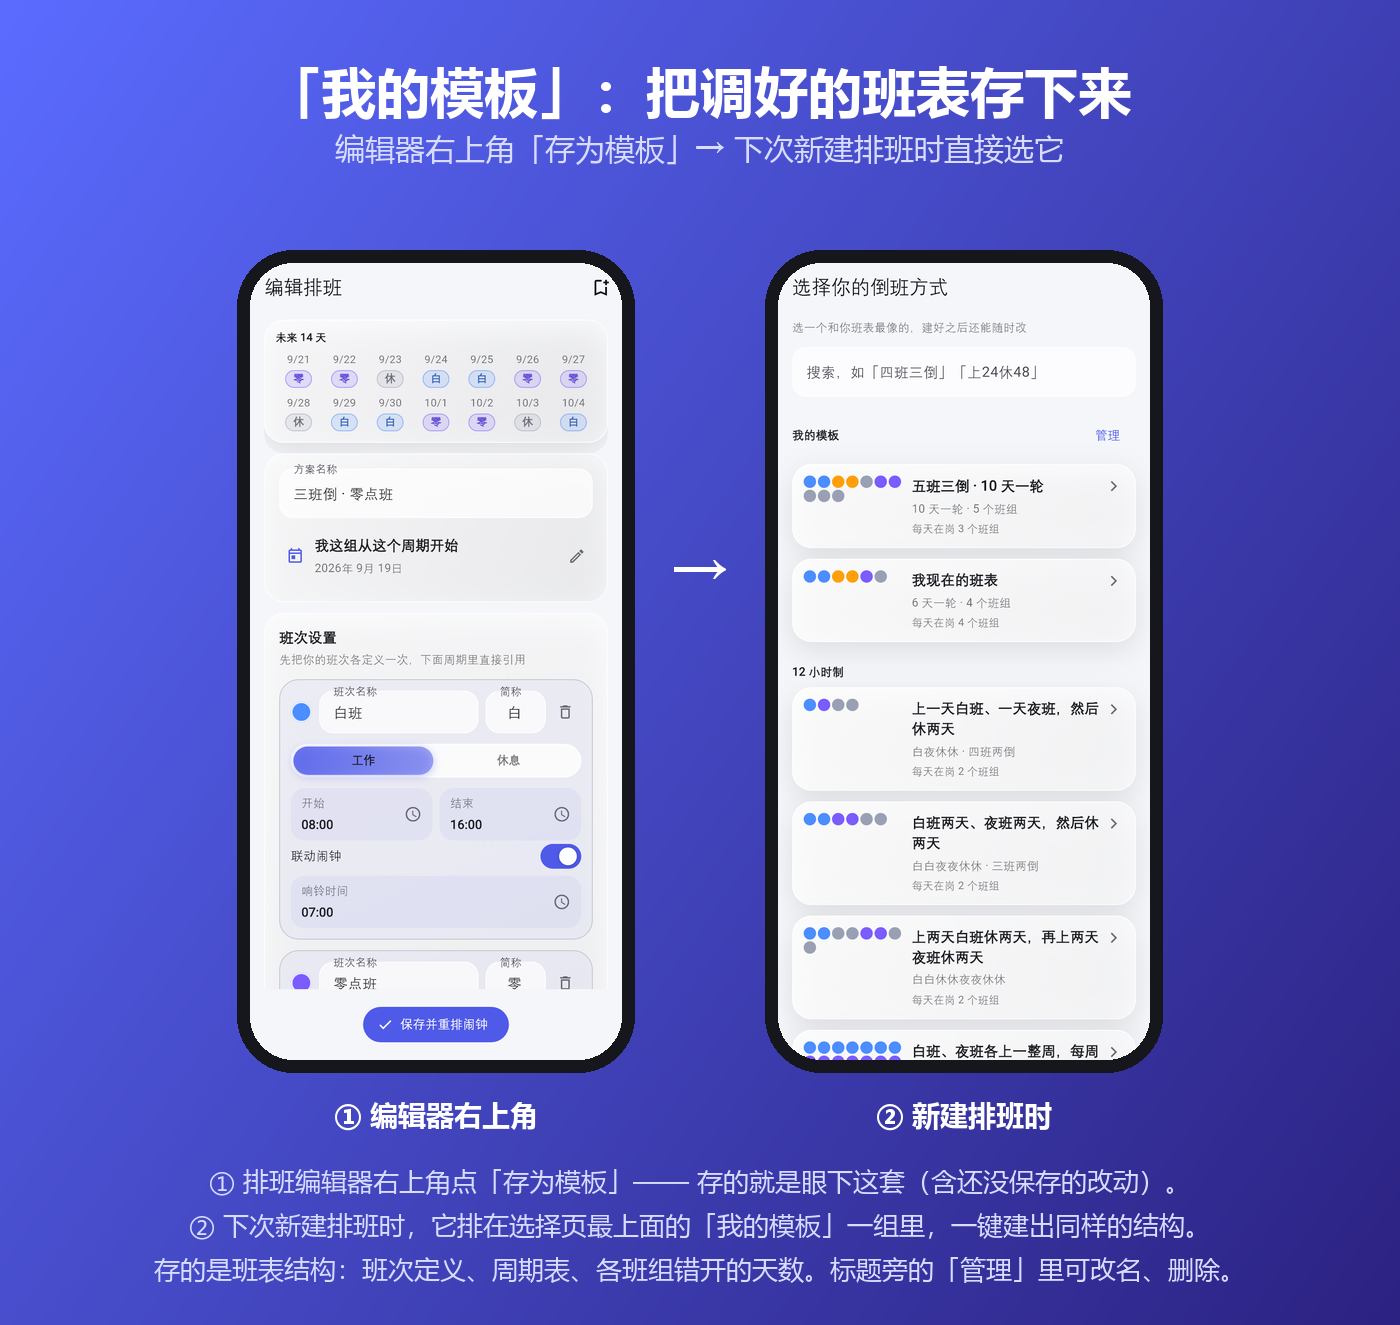
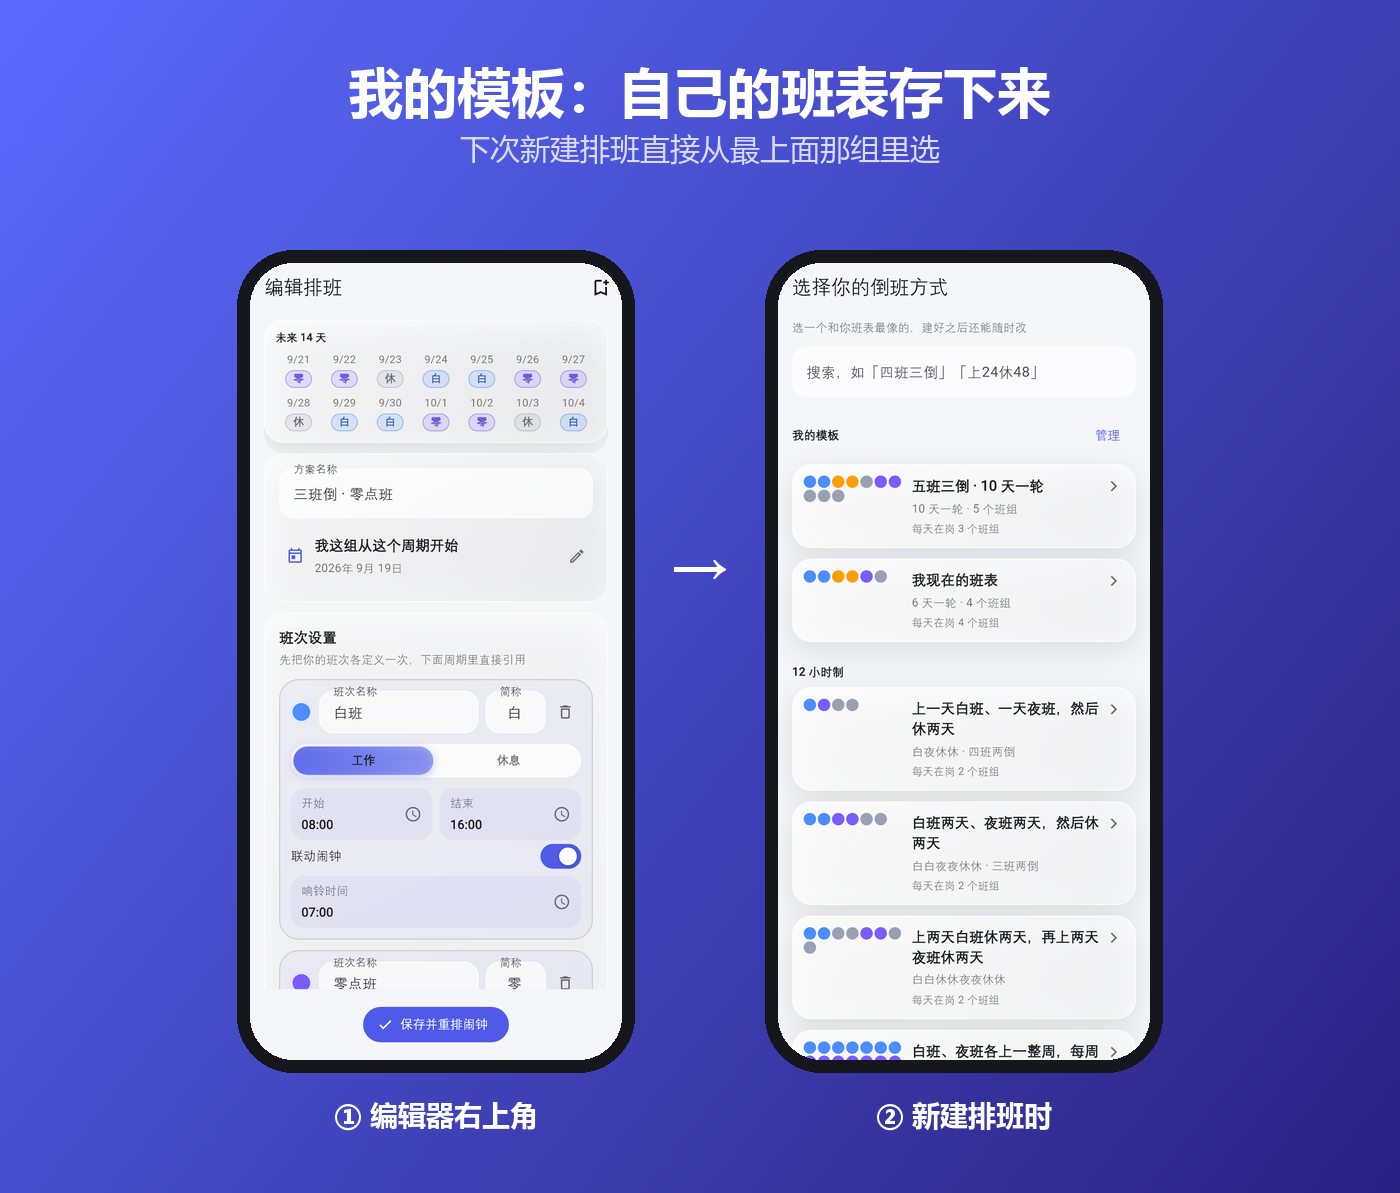
docs(images): v0.9.0 说明图改成评论区用的极简风格
用户反馈：这组图是回复在自己帖子下面的**评论区**里（早有一篇全面的介绍帖），
只需要一眼看出「这一版跟上个正式版有什么不同」，我上一版每张图带 2~4 行完整
句子太啰嗦。

- 首图：版本号 + 「对比上一个正式版 v0.8.0」+ 五行短词组（不再有副标题）；
- 功能图：标题一行 + 圈号短标签（① 班次设置 / ② 闹钟列表），整段解释删掉；
- 小组件的底部两行长说明删掉，只留一句「点某一天直接跳到那天的日历」；
- 撞班那张的三行长说明收成一行。

diff --git a/scripts/make_update_images.py b/scripts/make_update_images.py
@@ -437,28 +437,26 @@ def cover_090():
            fill=INK_SUB, anchor='ma')
     d.text((W / 2, 178), 'v0.9.0　正式稳定版', font=_font('msyhbd.ttc', 96),
            fill=INK, anchor='ma')
-    d.text((W / 2, 312), '归纳 v0.8.1 ~ v0.8.12 十二个测试版的全部更新',
+    d.text((W / 2, 312), '对比上一个正式版 v0.8.0',
            font=_font('msyh.ttc', 34), fill=INK_SUB, anchor='ma')
 
+    # 评论区回复用：一行一件事，不写副标题
     items = [
-        ('桌面小组件：三张固定尺寸的卡',
-         '本周条 4×1 / 今日卡 4×3 / 整月 4×5，改了排班桌面跟着变'),
-        ('日历上可以单独改某几天的班',
-         '点信息卡那行班次、或长按拖选一段 —— 请假、换班不用动整套排班'),
-        ('「我的模板」：自己调好的班表存下来',
-         '下次新建排班直接从最上面那组里选，不用每次从头搭'),
-        ('两处用户反馈的修正',
-         '零点班的闹钟改排到上班前一天；班组撞班会点名并一键均分'),
+        '桌面小组件：三张固定尺寸的卡',
+        '日历上按天改班（请假 / 换班）',
+        '我的模板：自己的班表存下来',
+        '零点班闹钟：改排上班前一天',
+        '班组撞班：一键按周期均分',
     ]
     y = 414
-    for i, (head, tail) in enumerate(items):
-        _panel(img, (180, y, W - 180, y + 116))
-        d.ellipse((216, y + 40, 252, y + 76), fill=ACCENT)
-        d.text((234, y + 58), str(i + 1), font=_font('msyhbd.ttc', 26),
+    for i, head in enumerate(items):
+        _panel(img, (180, y, W - 180, y + 88))
+        d.ellipse((214, y + 26, 250, y + 62), fill=ACCENT)
+        d.text((232, y + 44), str(i + 1), font=_font('msyhbd.ttc', 26),
                fill=INK, anchor='mm')
-        d.text((286, y + 22), head, font=_font('msyhbd.ttc', 36), fill=INK)
-        d.text((286, y + 70), tail, font=_font('msyh.ttc', 27), fill=INK_SUB)
-        y += 140
+        d.text((284, y + 44), head, font=_font('msyhbd.ttc', 38), fill=INK,
+               anchor='lm')
+        y += 106
     return img.convert('RGB')
 
 
@@ -486,9 +484,9 @@ def widgets_090():
 
     # 圈号贴在卡片旁边（不压住内容），右侧一列说明
     marks = [
-        (xa + a.width * 0.5, y + a.height * 0.20, '本周条 4×1', '今天所在这一周的七天'),
-        (xa + a.width * 0.5, y + a.height * 0.62, '今日卡 4×3', '底栏那张信息卡的完整版'),
-        (xb + b.width * 0.5, y + b.height * 0.46, '整月 4×5', '月份标题 + 42 格月历'),
+        (xa + a.width * 0.5, y + a.height * 0.20, '本周条 4×1', '今天这一周'),
+        (xa + a.width * 0.5, y + a.height * 0.62, '今日卡 4×3', '今日详情'),
+        (xb + b.width * 0.5, y + b.height * 0.46, '整月 4×5', '整月网格'),
     ]
     for i, (cx, cy, head, tail) in enumerate(marks):
         d.ellipse((cx - 21, cy - 21, cx + 21, cy + 21), fill=ACCENT,
@@ -501,60 +499,47 @@ def widgets_090():
                fill=INK, anchor='mm')
         d.text((1036, ly - 14), head, font=_font('msyhbd.ttc', 34), fill=INK)
         d.text((1036, ly + 40), tail, font=_font('msyh.ttc', 25), fill=INK_SUB)
-    d.text((W / 2, H - 96),
-           '两张卡同屏放不下时，第三张会自动排到相邻那一屏 —— 三张都是「添加一次、各自独立」的卡。',
-           font=_font('msyh.ttc', 25), fill=INK_SUB, anchor='ma')
-    d.text((W / 2, H - 56),
-           '点整卡开 App，点某一天跳到那天的日历；小米 / HyperOS：长按桌面 → 添加小部件 → 支持小部件的应用 → 安卓小部件。',
-           font=_font('msyh.ttc', 25), fill=(170, 178, 220), anchor='ma')
+    d.text((W / 2, H - 76), '点某一天直接跳到那天的日历',
+           font=_font('msyh.ttc', 26), fill=INK_SUB, anchor='ma')
     return img.convert('RGB')
 
 
 def override_090():
     return _pair(
-        '日历上可以单独改某几天的班（请假 / 换班）',
-        '长按格子拖选一段（可跨周、不跨月），或点信息卡上那行班次',
+        '日历上按天改班',
+        '长按格子拖选一段，或点信息卡上那行班次',
         '10_calendar_adjusted_light.png', '11_override_picker_light.png',
-        '① 被改过的那天', '② 选择层',
-        ['① 被改过的那天：格子上带小圆点、信息卡写「已调班」。',
-         '② 选择层里挑班次；范围里已有调整时，多一条「恢复轮转」。',
-         '只作用于我们班组（其他班组视图仍是纯轮转）；改了之后联动闹钟自动跟着变。'],
+        '① 改过的那天', '② 选择层',
+        ['只作用于我们班组；改了之后联动闹钟自动跟着变。'],
         base=VIS)
 
 
 def templates_090():
     return _pair(
-        '「我的模板」：把调好的班表存下来',
-        '编辑器右上角「存为模板」→ 下次新建排班时直接选它',
+        '我的模板：自己的班表存下来',
+        '下次新建排班直接从最上面那组里选',
         '13_editor_midnight_light.png', '16_template_picker_mine_light.png',
         '① 编辑器右上角', '② 新建排班时',
-        ['① 排班编辑器右上角点「存为模板」—— 存的就是眼下这套（含还没保存的改动）。',
-         '② 下次新建排班时，它排在选择页最上面的「我的模板」一组里，一键建出同样的结构。',
-         '存的是班表结构：班次定义、周期表、各班组错开的天数。标题旁的「管理」里可改名、删除。'],
+        [],
         base=VIS)
 
 
 def midnight_090():
     return _pair(
-        '零点班（00:00 上班）的闹钟改排到上班前一天',
-        '用户反馈：从前排在班次当天 23:00 —— 那会儿这个班已经结束 15 小时了',
+        '零点班闹钟：改排上班前一天',
+        '00:00 上班、响铃 23:00 —— 从前排在班后，现在排在上班前 1 小时',
         '13_editor_midnight_light_scrolled.png', '14_alarm_midnight_light.png',
-        '① 班次设置里', '② 闹钟列表里',
-        ['① 班次设置里响铃那一块直接写成「前一天 23:00」，下面还有一行说明。',
-         '② 闹钟页的列表行同样标「前一天」，一眼看得出是哪天响。',
-         '新规则：响铃时刻取「不晚于上班时刻的最近一次该钟点」，也就是上班前 1 小时；',
-         '早班、中班这些响铃本来就排在上班之前的班次不受影响。'],
+        '① 班次设置', '② 闹钟列表',
+        [],
         base=VIS)
 
 
 def clash_090():
     return _single(
-        '班组撞班：点名 + 一键按周期长度均分',
-        '用户反馈：把 5 天一轮改成 10 天之后，同一天有两个班组上同一个班',
+        '班组撞班：点名 + 一键均分',
+        '把 5 天一轮改成 10 天之后，同一天有两个班组上同一个班',
         '15_editor_crew_clash_light_scrolled.png',
-        ['① 编辑器的「周期设置」里直接点出相撞的两个班组、以及有几天相撞',
-         '② 下面那个按钮把各组起始日按周期长度均分（你自己那一组不动）',
-         '③ 起因是周期长度变了、各组的「周期起始日」还按老的间隔错开'],
+        ['编辑器的「周期设置」里点出相撞的班组，一键按周期长度均分'],
         dev_w=470, base=VIS)
 
 
